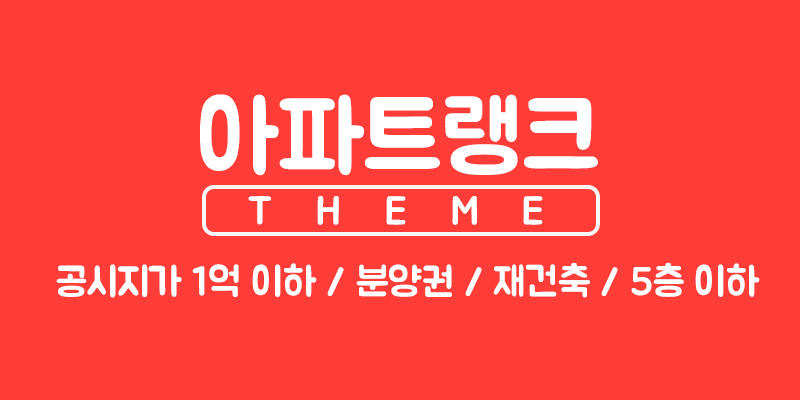
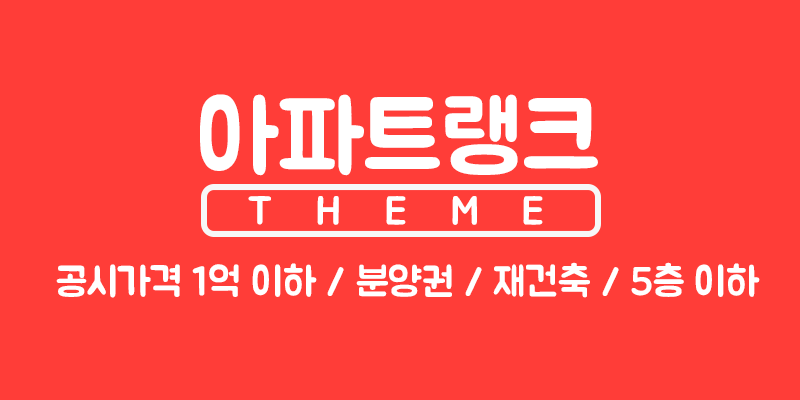
공시가격 명칭 변경

diff --git a/theme/index.html b/theme/index.html
@@ -105,7 +105,7 @@
         <div id="gungu_selection"><select id="gungu" onChange="updateRegion()"></select></div>        
         <div id="theme_selection">
           <select id="theme" onChange="updateTheme()">            
-            <option value="under100M" selected>공시지가 1억 이하</option>
+            <option value="under100M" selected>공시가격 1억 이하</option>
             <option value="under5floor">5층 이하 단지</option>
             <option value="newApt">분양권</option>
             <option value="rebuild">재건축</option>
@@ -564,7 +564,7 @@
                 addon_html += aptAddress + "</div>";
               }
 
-              addon_html += "<div class='themePoint'>공시지가: " + min_land_price + "억 ~ " + max_land_price + "억</div>";
+              addon_html += "<div class='themePoint'>공시가격: " + min_land_price + "억 ~ " + max_land_price + "억</div>";
               addon_html += "</div>";
               addon_html += "<div id='NLink'><button type='button' class='goThemeLink' onclick='openNaver(" + searchCode + ")'>N부동산</button></div>"
 
@@ -649,8 +649,8 @@
 
         if(count < 1){
           if(type == "under100M"){
-            addon_html = "<div class='content'><div class='apt_name' style='text-align:center; padding-top: 2em'>" + $('#sido option:selected').text() + " " + $('#gungu option:selected').text() + "에는 <br> 공시지가 1억 이하 아파트 단지가 없네요. </div></div>"
-            shareText = "공시지가 1억 이하 아파트 단지가 없네요.\n"
+            addon_html = "<div class='content'><div class='apt_name' style='text-align:center; padding-top: 2em'>" + $('#sido option:selected').text() + " " + $('#gungu option:selected').text() + "에는 <br> 공시가격 1억 이하 아파트 단지가 없네요. </div></div>"
+            shareText = "공시가격 1억 이하 아파트 단지가 없네요.\n"
           }
           if(type == "under5floor"){
             addon_html = "<div class='content'><div class='apt_name' style='text-align:center; padding-top: 2em'>" + $('#sido option:selected').text() + " " + $('#gungu option:selected').text() + "에는 <br> 5층 이하 아파트 단지가 없네요. </div></div>"
@@ -673,7 +673,7 @@
     shareTitle = "[아파트랭크THEME]\n"
     shareTitle += "'" + $('#sido option:selected').text() + " " + $('#gungu option:selected').text() + "' "
     if(type == "under100M"){
-      shareTitle += "공시지가 1억 이하 아파트 단지\n\n"
+      shareTitle += "공시가격 1억 이하 아파트 단지\n\n"
     }
     if(type == "under5floor"){
       shareTitle += "5층 이하 아파트 단지\n\n"      
@@ -1245,7 +1245,7 @@
     var titleHtml = "<div class='popupTitle'> 아파트랭크:THEME </div>";
     var footerHtml = ""
     var detailHtml = "<div class='notice'>아파트랭크에서 많이 요청된 검색 테마를 한 번에 볼 수 있도록 '아파트랭크[THEME]' 서비스를 오픈했습니다.</div>"
-    detailHtml +=  "<div class='notice'>각 지역의 <strong>'공시지가 1억 이하 단지', '5층 이하 단지', '분양권 단지', '재건축 단지' </strong>목록을 제공합니다.</div>";
+    detailHtml +=  "<div class='notice'>각 지역의 <strong>'공시가격 1억 이하 단지', '5층 이하 단지', '분양권 단지', '재건축 단지' </strong>목록을 제공합니다.</div>";
     detailHtml += "<div class='notice'>업데이트 알림은 <a href='https://pf.kakao.com/_vESNb' target='_blank'>카카오톡 채널</a>을 통해 전달됩니다.</div>";
     detailHtml += "<hr>";    
     detailHtml += "<div class='popupTitle' style='text-align: center; padding-bottom: 1em'>꼭 읽어주세요!</div>";
